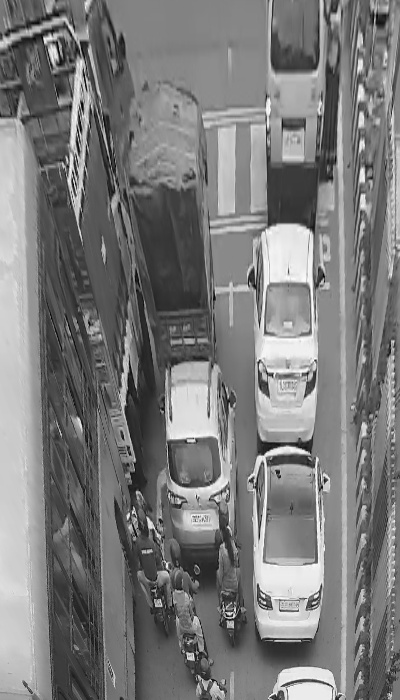
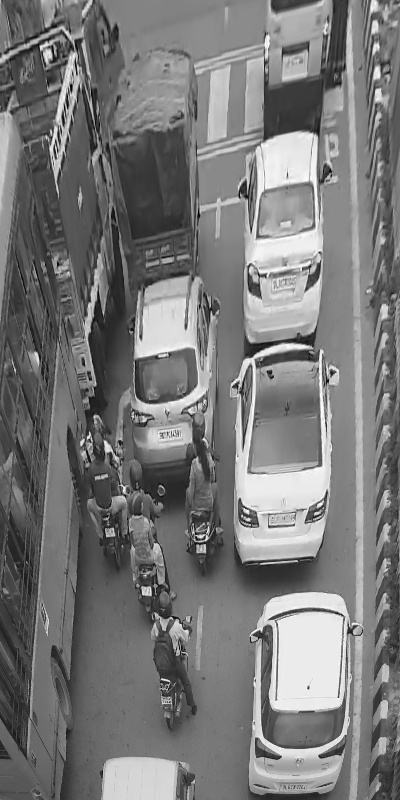
added mouse click to the code

diff --git a/subtask1.cpp b/subtask1.cpp
@@ -3,16 +3,31 @@
 using namespace cv;
 using namespace std;
 
+void on_mouse( int event, int x, int y, int flag, void *ptr )
+{
+    if (event == EVENT_LBUTTONDOWN )
+    { 
+        vector<Point2f>*pts_src = (vector<Point2f>*)ptr;
+        pts_src->push_back(Point2f(x,y));
+    }
+}
+
 int main(int argc, char const *argv[])
 {
 	Mat traffic;
 	traffic = imread("traffic.jpg", IMREAD_GRAYSCALE);
-    // Four corners of the book in source image
     vector<Point2f> pts_src;
-    pts_src.push_back(Point2f(900,250));
-    pts_src.push_back(Point2f(150,980));
-    pts_src.push_back(Point2f(1570,980));
-    pts_src.push_back(Point2f(1300,250));
+    // Four corners of the book in source image
+    namedWindow("My Window", WINDOW_NORMAL);
+    setMouseCallback("My Window", on_mouse, &pts_src);
+    imshow("My Window", traffic);
+    waitKey(0);
+    destroyAllWindows();
+    // vector<Point2f> pts_src;
+    // pts_src.push_back(Point2f(900,250));
+    // pts_src.push_back(Point2f(150,980));
+    // pts_src.push_back(Point2f(1570,980));
+    // pts_src.push_back(Point2f(1300,250));
 
     vector<Point2f> pts_dest;
     pts_dest.push_back(Point2f(472,52));
@@ -24,7 +39,7 @@ int main(int argc, char const *argv[])
     Mat t_out, t_out_cropped;
     warpPerspective(traffic, t_out, h, traffic.size());
 
-    Rect crop(447, 10, 400, 700);
+    Rect crop(447, 10, 400, 800);
     t_out_cropped = t_out(crop);
 
     namedWindow("Warped", WINDOW_NORMAL);
